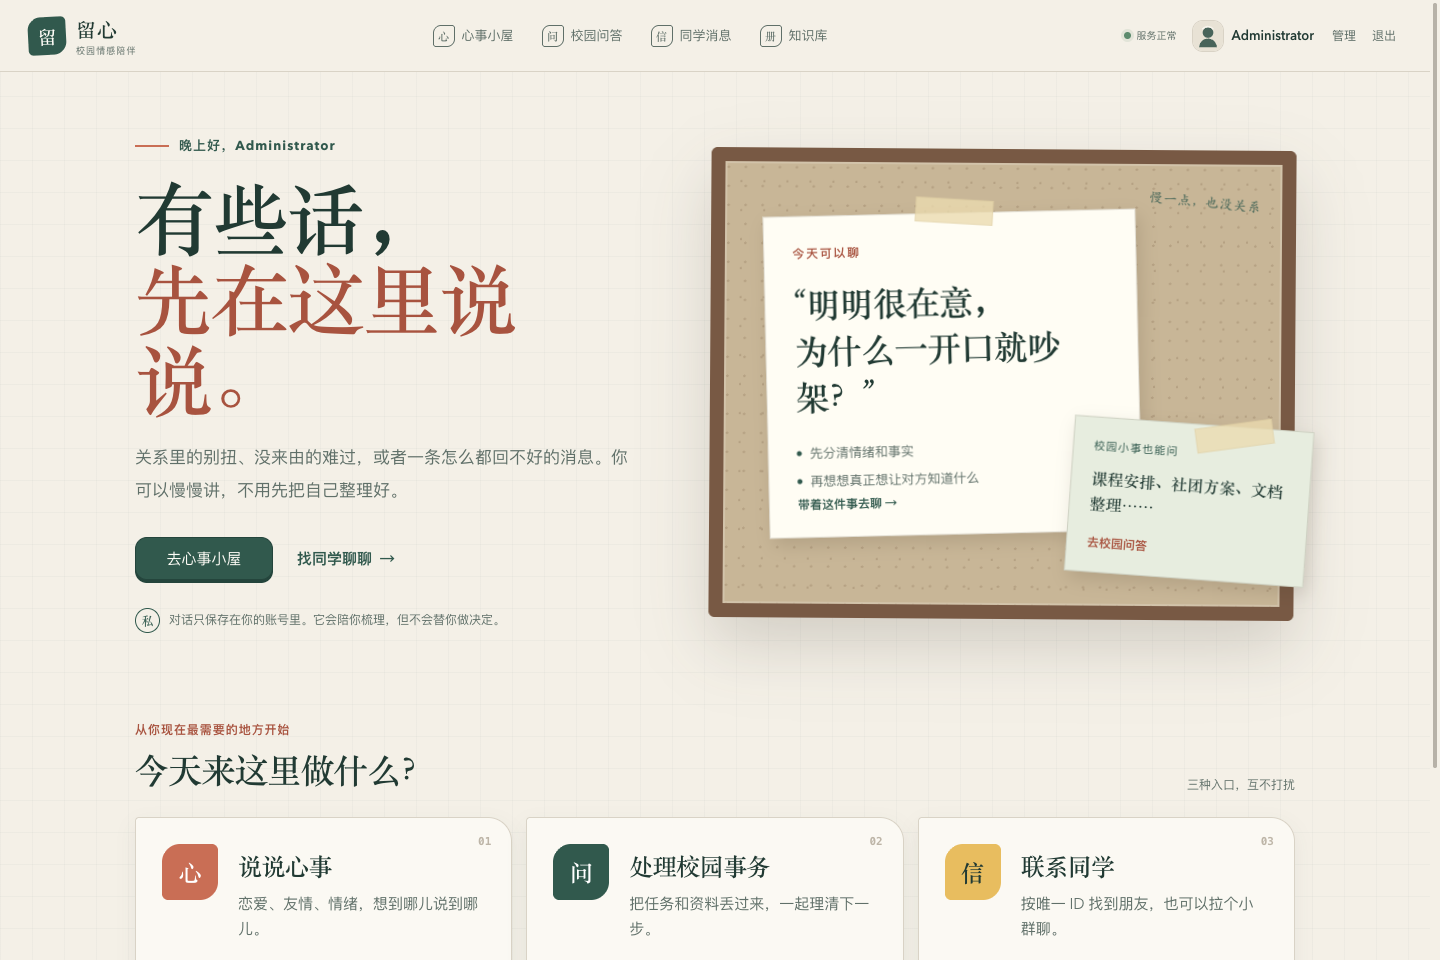
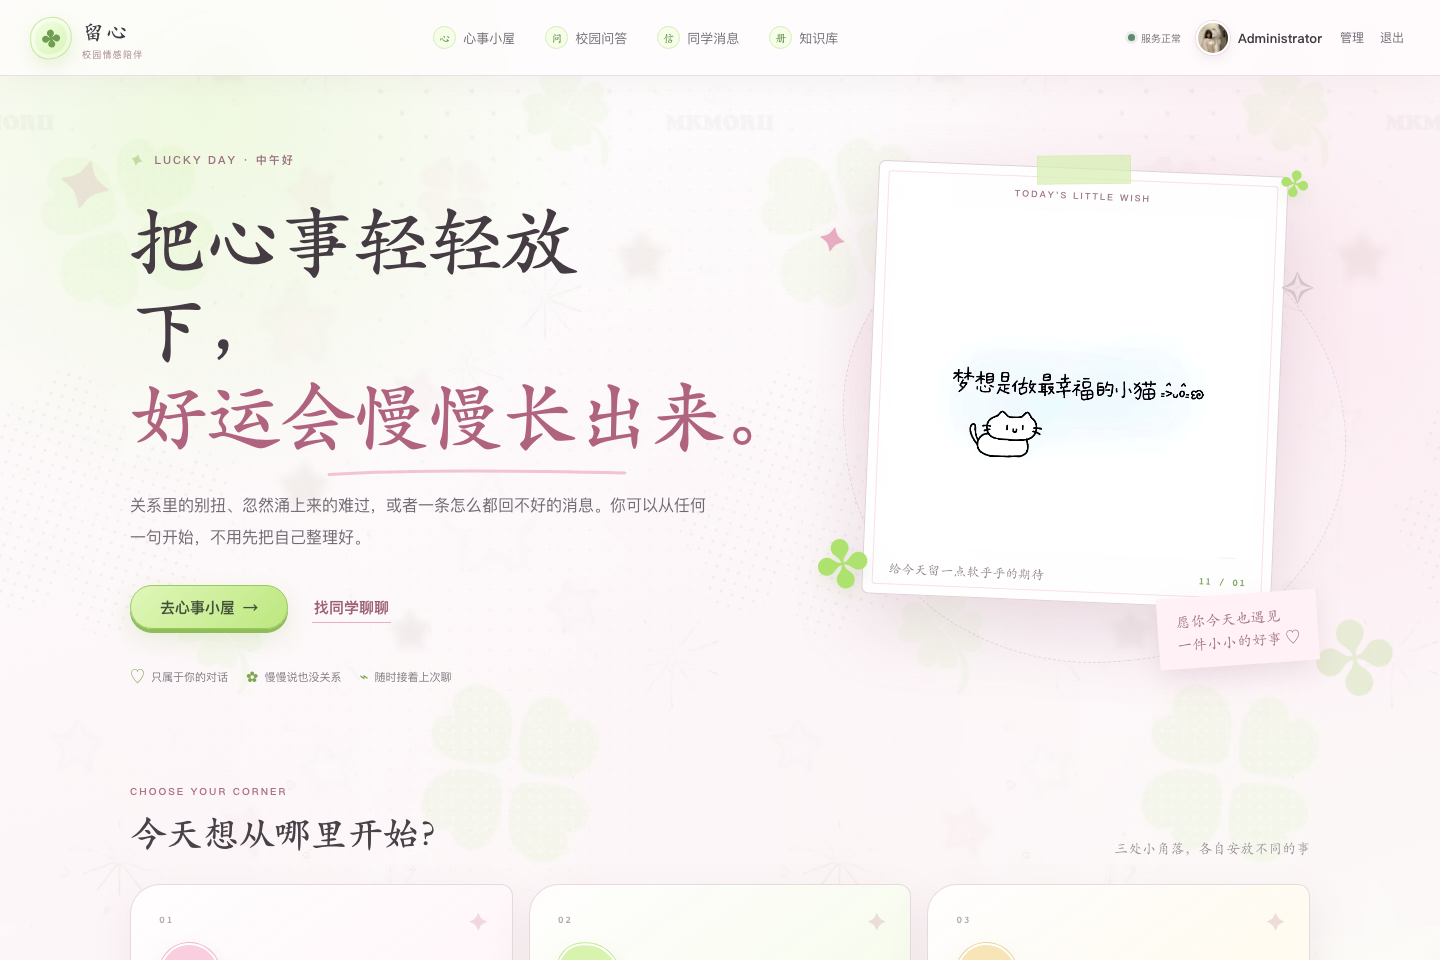
更新新版前端说明与界面截图

diff --git a/README.md b/README.md
@@ -2,6 +2,8 @@
 
 一个面向校园场景的全栈 AI 应用：既能陪你梳理关系与情绪，也能处理校园事务，还支持同学之间的私聊与群聊。
 
+新版前端以“幸运草手帐”为视觉主题，用淡粉、嫩绿、留白和便签式卡片营造轻松、柔和的校园陪伴氛围，并针对桌面端与移动端做了响应式适配。
+
 `Vue 3` · `Spring Boot 3` · `Spring AI Alibaba` · `RAG` ·
 `ReAct Agent` · `MySQL` · `PGVector` · `Docker`
 
@@ -20,6 +22,8 @@
 > 留心提供的是辅助梳理与信息支持，不能替代心理咨询、医疗建议或现实中的紧急援助。
 
 ## 界面预览
+
+首页、账号入口与聊天空间采用统一的幸运草纹理和手帐语言；重要信息仍保留足够的文字对比度，避免装饰影响使用。
 
 | 登录与账号 | 心事小屋 |
 | --- | --- |
@@ -77,7 +81,7 @@ flowchart LR
 
 | 层级 | 技术 |
 | --- | --- |
-| 前端 | Vue 3、TypeScript、Vite、Vue Router、Axios、markdown-it |
+| 前端 | Vue 3、TypeScript、Vite、Vue Router、Axios、markdown-it、响应式手帐主题 |
 | 后端 | Java 21、Spring Boot 3.4.8、Spring Security、Spring Data JPA |
 | AI | Spring AI Alibaba、DashScope SDK、LangChain4j、ReAct、MCP |
 | 数据 | MySQL 8、Flyway、PostgreSQL / PGVector；H2 用于演示环境与测试 |
@@ -183,6 +187,8 @@ npm run dev
 - 后端健康检查：[http://localhost:8123/api/health](http://localhost:8123/api/health)
 - Swagger UI：[http://localhost:8123/api/swagger-ui.html](http://localhost:8123/api/swagger-ui.html)
 
+> 本地开发时以 `5173` 上的 Vite 页面为准，它会实时加载当前前端源码。`8080` 提供的是 Docker 构建版本；前端源码更新后，需要重新执行带 `--build` 的 Compose 启动命令才能同步更新。
+
 ## 环境变量
 
 | 变量 | 必填 | 说明 |
@@ -248,6 +254,7 @@ liu-ai-agent/
 # 前端生产构建
 cd liu-ai-agent-frontend
 npm ci
+npm test
 VITE_API_BASE_URL=/api npm run build
 ```
 
